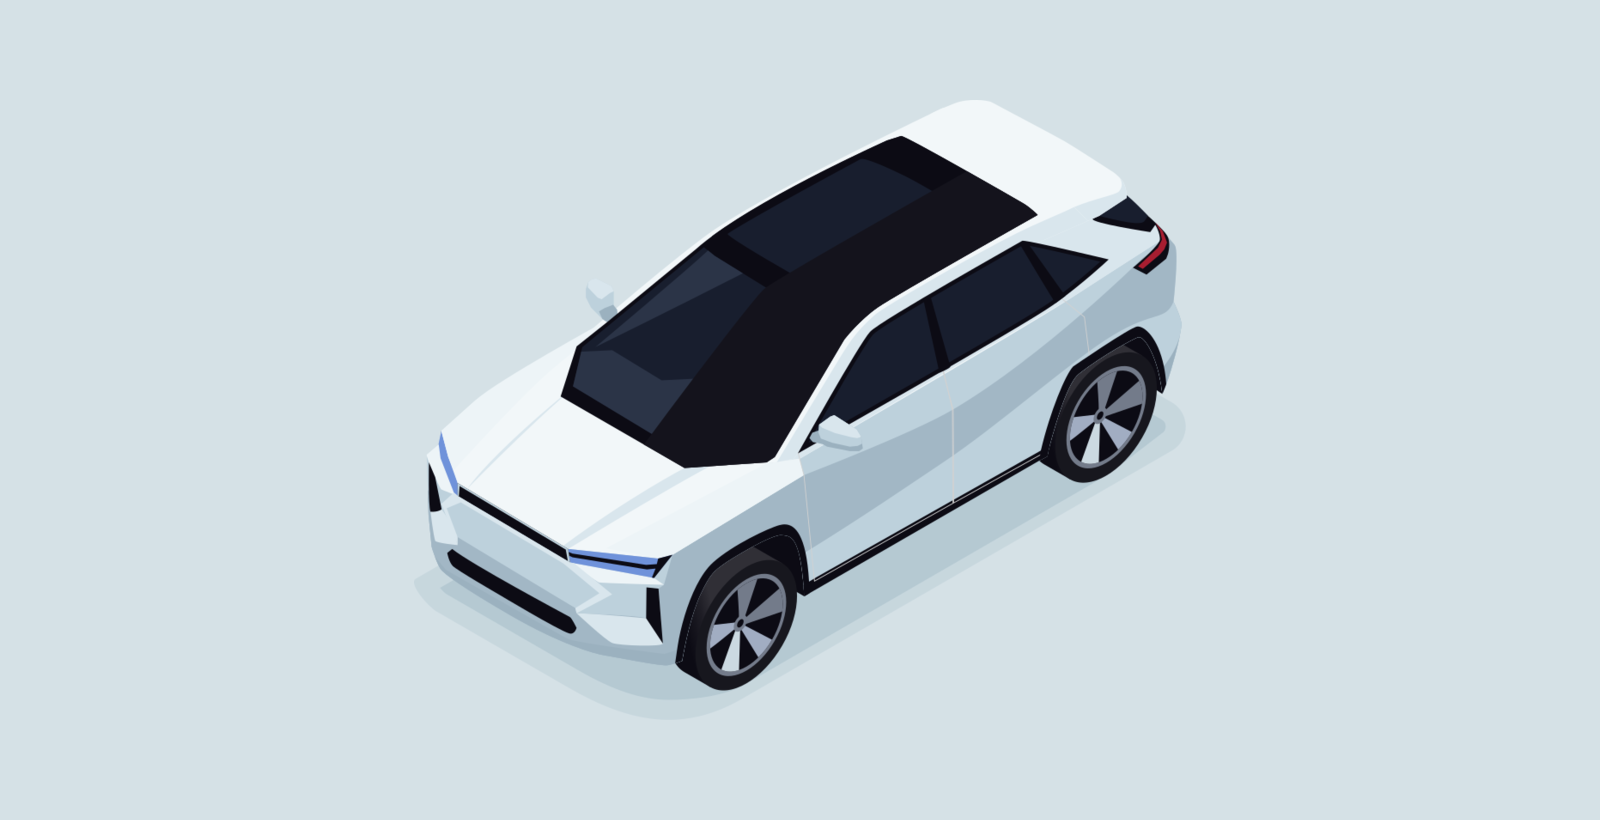
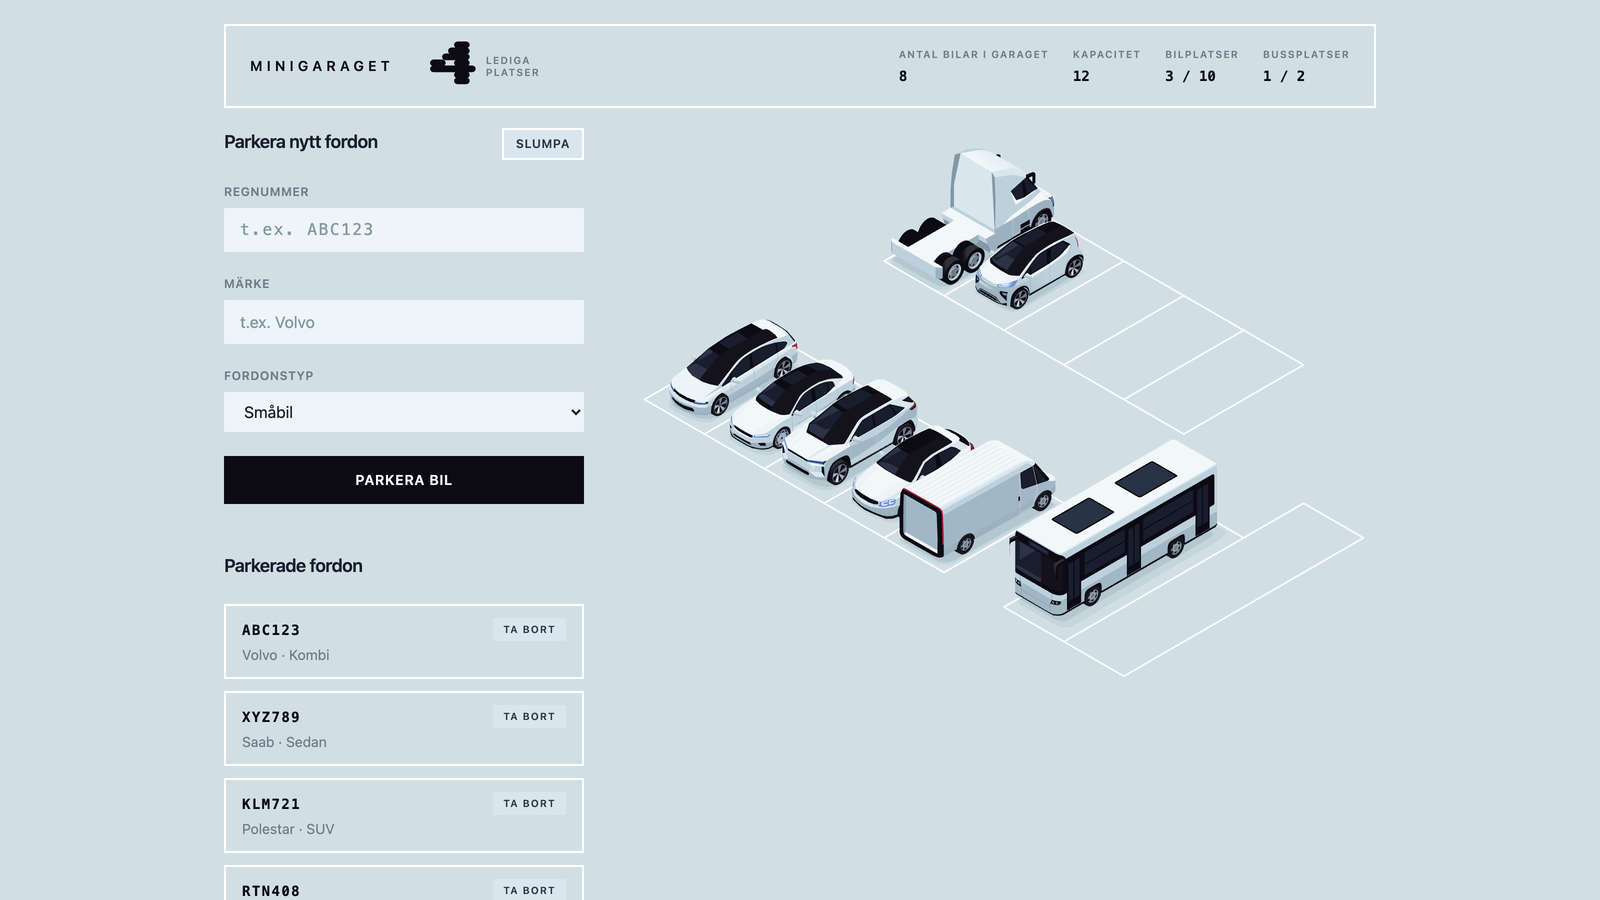
docs: refresh the readme hero and add a social preview image

diff --git a/README.md b/README.md
@@ -14,7 +14,9 @@ screen and its interface is Swedish; the code and documentation are English.
 - **Swedish plate validation** — `ABC123` or `ABC12A`, with lowercase input coerced to uppercase
 - **Real capacity.** Every garage plan has a fixed set of bays in three lengths. A vehicle takes
   the smallest free bay it fits in, so a bus can be turned away even while car bays sit empty
-- **Isometric view** of the lot, drawn from the same array that renders the list
+- **A garage per session.** One of five hand-authored plans is picked at random on load
+- **Isometric view** of the lot, drawn from the same array that renders the list, with hover
+  linking a row to its bay in both directions
 
 ## Stack
 
@@ -23,12 +25,7 @@ screen and its interface is Swedish; the code and documentation are English.
 | Framework | React 19 + TypeScript |
 | Build | Vite |
 | Styling | Tailwind CSS v4, with a palette derived from the artwork in OKLCH |
-| Tests | Vitest, over the pure functions in `src/domain/` |
-
-## Status
-
-Design is settled and written down. Implementation has not started — the repository currently
-holds the artwork, the domain glossary and the planning material.
+| Tests | Vitest — 77 tests over the pure functions in `src/domain/` |
 
 ## Getting started
 
@@ -39,12 +36,20 @@ npm test         # unit tests
 npm run build    # production build
 ```
 
-## Artwork
+## How it is put together
 
-The vehicles are isometric illustrations cut out of a shared source file
-(`materials/isometric_vehicles/`) by a script in `tools/`, together with the geometry needed to
-place each one correctly in its bay. The output is committed — the script is run by hand, not on
-every build.
+- **`src/App.tsx`** owns all state. Adding, removing, counting and rendering the list all happen
+  here, in one file.
+- **`src/domain/`** is pure: plate validation, best-fit bay assignment, the isometric grid
+  conversion, and the random vehicle generator. No React, no state, all tested.
+- **`src/data/`** holds the vehicle catalogue, the brand table, the garage plans, and the
+  generated sprite geometry.
+- **`tools/extract-vehicles.mjs`** cuts the 19 vehicle sprites out of a single source artboard
+  (`materials/isometric_vehicles/`) and records where each one sits in its bay. It is run by
+  hand and its output is committed — the artwork changes about twice a decade.
+
+Design decisions that would otherwise be puzzling are recorded in [`docs/adr/`](docs/adr), and
+the domain vocabulary in [`CONTEXT.md`](CONTEXT.md).
 
 ## Language rule
 
